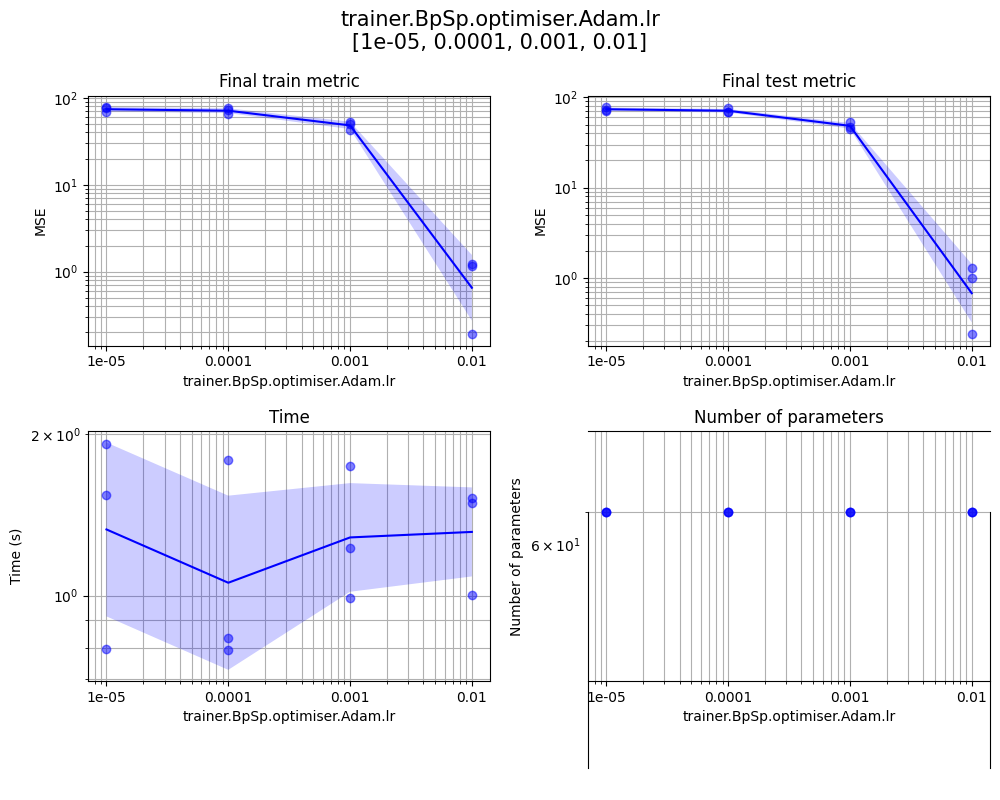
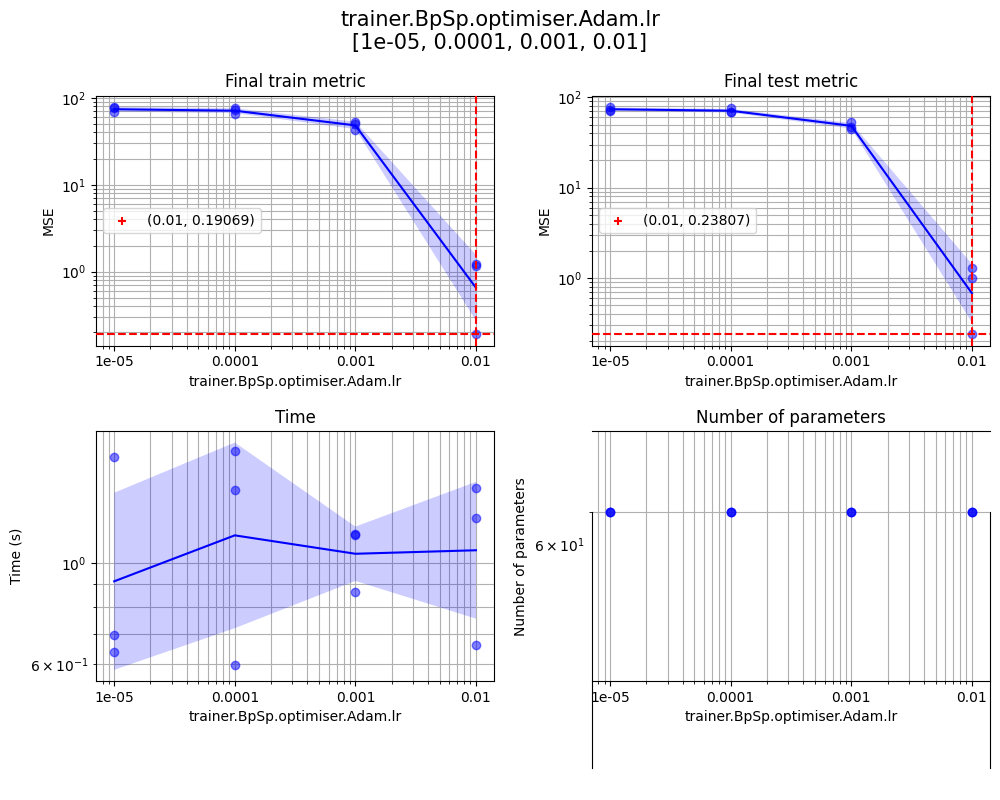
Add updated sweep results

diff --git a/results/sweep/dLi5o10te200tr200ts0.0x0.0lMmLeIpItBb100e1,2,300lCle1E-05oAol,1E-0.0001,.001,.01,5s1,2,3/results.md b/results/sweep/dLi5o10te200tr200ts0.0x0.0lMmLeIpItBb100e1,2,300lCle1E-05oAol,1E-0.0001,.001,.01,5s1,2,3/results.md
@@ -12,7 +12,7 @@ Model                                  | `LinearModel(num_params=60)`
 Model name                             | `dLi5o10te200tr200ts0.0x0.0_lM_mLeIpI_tBb100e300lCle1E-05oAol0.01_s2`
 Train metrics                          | `start = 68.86100, end =  0.19069, max = 68.86100, min =  0.19069`
 Test metrics                           | `start = 72.84058, end =  0.23807, max = 72.84058, min =  0.23807`
-Training duration                      | `1.4916 seconds`                      
+Training duration                      | `1.4635 seconds`                      
 Number of parameters                   | `60`                                  
 `--seed`                               | `2`                                   
 `--trainer.BpSp.epochs`                | `300`                                 
@@ -84,6 +84,7 @@ Rank       | `test.min` | `seed`     | `trainer.BpSp.epochs` | `trainer.BpSp.opt
 ## `git add`
 
 ```
+
 cd results/sweep/dLi5o10te200tr200ts0.0x0.0lMmLeIpItBb100e1,2,300lCle1E-05oAol,1E-0.0001,.001,.01,5s1,2,3
 git add -f results.md
 git add -f ../../train/dLi5o10te200tr200ts0.0x0.0_lM_mLeIpI_tBb100e300lCle1E-05oAol0.01_s2/metrics.json
@@ -91,11 +92,22 @@ git add -f ../../train/dLi5o10te200tr200ts0.0x0.0_lM_mLeIpI_tBb100e300lCle1E-05o
 git add -f trainer.BpSp.epochs.png
 git add -f trainer.BpSp.optimiser.Adam.lr.png
 cd ../../..
+
 ```
 
 ## [`README.md`](../../../README.md) include
 
+```md
+
 [`[ full_sweep_results ]`](results/sweep/dLi5o10te200tr200ts0.0x0.0lMmLeIpItBb100e1,2,300lCle1E-05oAol,1E-0.0001,.001,.01,5s1,2,3/results.md)
+
+![](results/train/dLi5o10te200tr200ts0.0x0.0_lM_mLeIpI_tBb100e300lCle1E-05oAol0.01_s2/metrics.png)
+
+![](results/sweep/dLi5o10te200tr200ts0.0x0.0lMmLeIpItBb100e1,2,300lCle1E-05oAol,1E-0.0001,.001,.01,5s1,2,3/trainer.BpSp.epochs.png)
+
+![](results/sweep/dLi5o10te200tr200ts0.0x0.0lMmLeIpItBb100e1,2,300lCle1E-05oAol,1E-0.0001,.001,.01,5s1,2,3/trainer.BpSp.optimiser.Adam.lr.png)
+
+```
 
 ## `sweep` command
 
